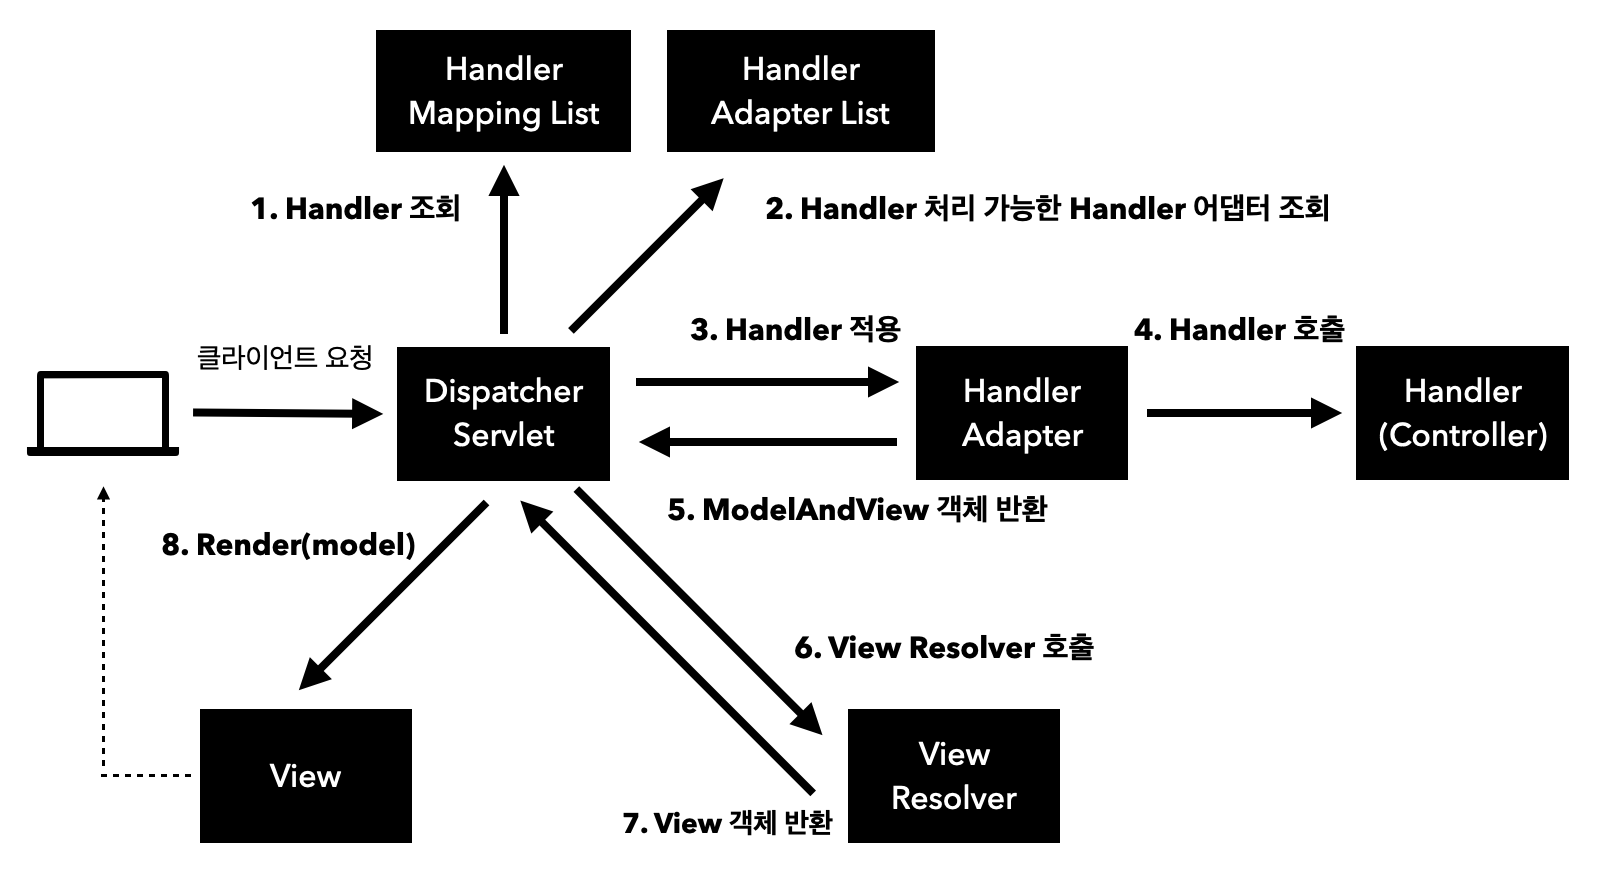
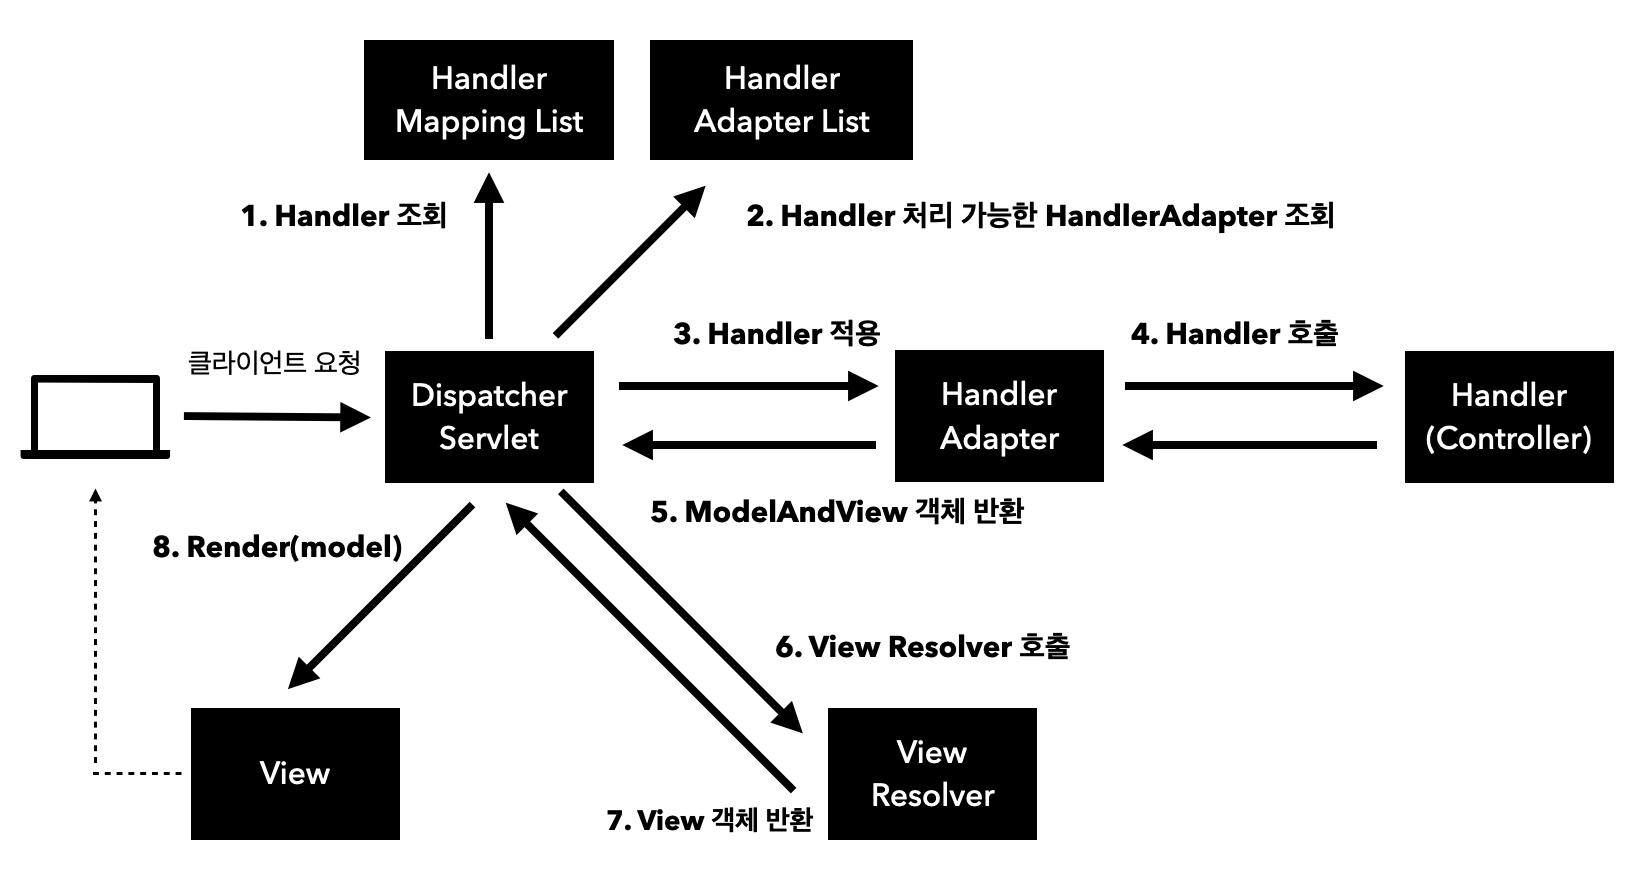
feat: 2025-01-16 update spring mvc and post httpMessageConverter

Changed region(s): [[0.0, 0.0305, 0.9651, 0.9774], [0.0311, 0.5498, 0.0623, 0.5803]]

diff --git a/_posts/dev/java/spring-mvc/2025-01-14-spring-mvc-arch.md b/_posts/dev/java/spring-mvc/2025-01-14-spring-mvc-arch.md
@@ -1,8 +1,9 @@
 ---
 title: SpringMVC 구조
 date: 2025-01-14
-categories: spring
-tags: [spring, dispatcher servlet, handler]
+categories: spring-mvc
+tags: [spring mvc, dispatcher servlet, handler]
+description: SpringMVC 구조 post
 permalink: springmvc/arch
 ---
 
@@ -10,13 +11,21 @@ permalink: springmvc/arch
 > ![SpringMVC 구조](/assets/img/posts/dev/java/spring-mvc/springmvc-arch1.png "SpringMVC 구조")
 
 ### 동작순서
-1. __Handler Mapping 조회__ : 요청 URL에 맞는 Handler(Controller) 조회
-2. __Handler Adapter 조회__ : 해당 Handler 실행 가능한 Adapter 조회
-3. __Handler Adapter 실행__ : Adapter가 있으면 Handler를 argument로 전달하며 Adapter 실행
-4. __Handler 실행__ : 실질적인 Handler(Controller) 실행
-5. __ModelAndView 객체 반환__ : Controller 에서 반환한 정보를 ModelAndView 객체로 변환 후 반환
-6. __View Resolver 호출__ : View Resolver를 찾고 실행한다.
-7. __View 반환__ : View Resolver는 뷰 논리 이름을 물리 이름으로 변경하고 Rendering 하기위해 View 객체를 반환한다.
+1. __HandlerMapping 조회__ : 요청 URL에 맞는 Handler(Controller) 조회 - from Dispatcher Servlet
+2. __HandlerAdapter 조회__ : 해당 Handler 처리 가능한 Adapter 조회 - from Dispatcher Servlet
+3. __HandlerAdapter 실행__ : 처리 가능한 Adapter 실행 - from Dispatcher Servlet
+4. __Handler 실행__ : Handler(Controller) 실행 - from HandlerAdapter
+5. __ModelAndView 객체 반환__ : Handler(Controller) 에서 반환한 정보를 ModelAndView 객체로 변환 후 반환 - from HandlerAdapter
+6. __View Resolver 호출__ : ModelAndView 객체의 논리 이름(페이지 이름) 전달하여 호출 - from Dispatcher Servlet
+> 6-1. 렌더링 할 수 있는 ViewResolver 조회 - from ViewResolver
+```
+> 0. BeanNameViewResolver         : Bean 이름으로 View 객체 반환(ex: excel 파일 생성 기능에 사용)
+> 1. InternalResourceViewResolver : JSP를 처리할 수 있는 InternalResourceView 객체 반환
+> ... 이하 생략
+```
+> 6-2. 해당 View 객체에 논리 이름을 물리 이름(절대 경로)으로 변환
+
+7. __View 객체 반환__ : View 객체를 반환한다.
 8. __View Rendering__ : View 객체의 Rendering메서드를 통해 Rendering 후 클라이언트 전달
 
 ### 왜 이런 구조로 동작할까?
@@ -27,15 +36,23 @@ permalink: springmvc/arch
 결론적으로 대규모 애플리케이션 개발과 유지보수를 최대한 단순화 하기 위해 Front Controller 구조를 사용한다.
 
 ### @Controller, @RequestMapping을 사용하면 어떻게 동작이 되는걸까?
-Spring은 Handler Mapping과 Handler Adapter 기능을 구현한 우선순위 기준으로 찾는다.
+Spring이 Handler Mapping과 Handler Adapter 기능을 __구현한 메서드에서 우선순위 기준으로 찾는다.__
 
-스프링이 자동 등록하는 HandlerMapping 우선 순위
-0. __RequestMappingHandlerMapping__ : @Controller/@RequestMapping 지정된 클래스
-1. BeanNameUrl HandlerMapping : Spring Bean이름으로 Handler를 찾는다.
+스프링이 찾는 HandlerMapping 우선 순위
+```
+0. RequestMappingHandlerMapping : @Controller/@RequestMapping 지정된 클래스 기준으로 Handler를 찾는다.
+1. BeanNameUrlHandlerMapping    : Bean이름으로 Handler를 찾는다.
+... 이하 생략
+```
 
-스프링이 자동 등록하는 HandlerAdapter 우선 순위
-0. __ReqeustMappingHandlerAdapter__ : @RequestMapping을 사용한 컨트롤러
-1. HttpReqeust HandlerAdapter : HttpRequestHandler 처리
-2. SimpleController HandlerAdapter : Controller 인터페이스 처리(@Controller X, 과거에 사용)
+스프링이 찾는 HandlerAdapter 우선 순위(각 HandlerAdapter 구현체의 supports() 메서드 호출하여 지원되는지 확인한다.)
+```
+0. RequestMappingHandlerAdapter   : @RequestMapping 애노테이션을 지정 했는지 확인
+1. HttpRequestHandlerAdapter      : HttpRequestHandler 인터페이스를 구현 했는지 확인
+2. SimpleControllerHandlerAdapter : Controller 인터페이스를 구현 했는지 확인(@Controller X, 과거에 사용)
+... 이하 생략
+```
 
-현재 Spring은 99% RequestMapping HandlerMapping/HandlerAdapter로 사용한다.
+현재 Spring은 99% __RequestMapping HandlerMapping/HandlerAdapter로 사용한다고 한다.__
+
+RequestMappingHandlerAdapter에 대해 자세한 내용은 [여기 클릭](request-mapping-handler-adapter)

diff --git a/_posts/dev/java/spring-mvc/2025-01-16-http-message-converter.md b/_posts/dev/java/spring-mvc/2025-01-16-http-message-converter.md
@@ -1,0 +1,21 @@
+---
+title: HTTP message converter
+date: 2025-01-16
+categories: spring-mvc
+tags: [spring mvc, dispatcher servlet, http message converter, requestMappingHandlerAdapter]
+description: HTTP message converter post
+permalink: springmvc/http-message-converter
+---
+
+## HTTP message converter
+### 정의
+* 대표적으로 API 요청, 응답과 같은 상황 일 때 사용한다.
+
+### 동작 시점
+* HTTP 요청 : `@RequestBody`, `HttpEntity(RequestEntity)`
+* HTTP 응답 : `@ResponseBody`, `HttpEntity(ResponseEntity)`
+
+@ResponseBody 사용시
+> HTTP body내용을 직접 반환하기 때문에 viewResolver 대신 HttpMessageConverter 사용
+> * 기본 문자처리 : StringHttpMessageConverter
+> * 기본 객체처리 : MappingJackson2HttpMessageConverter
